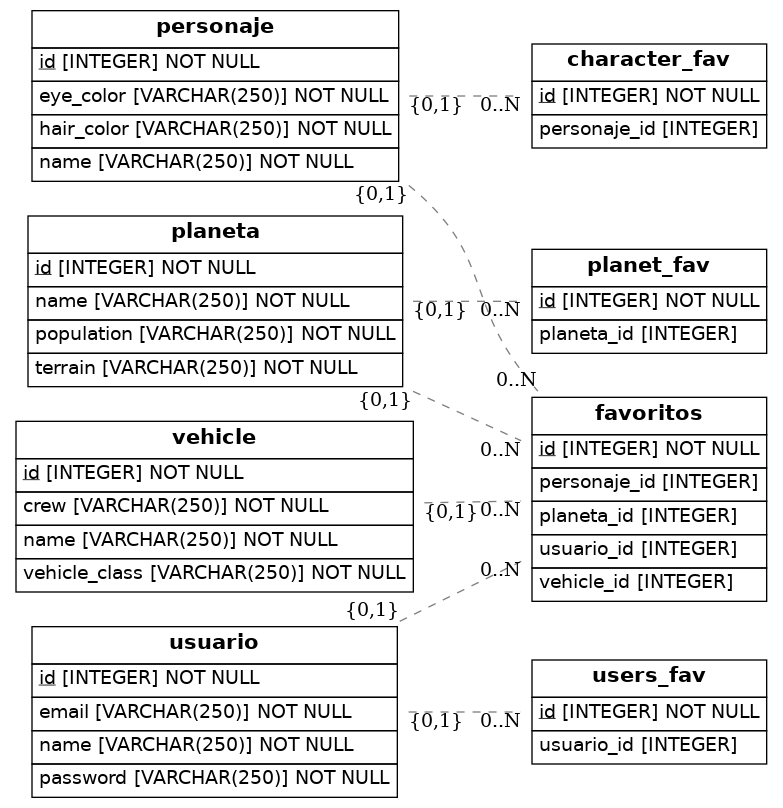
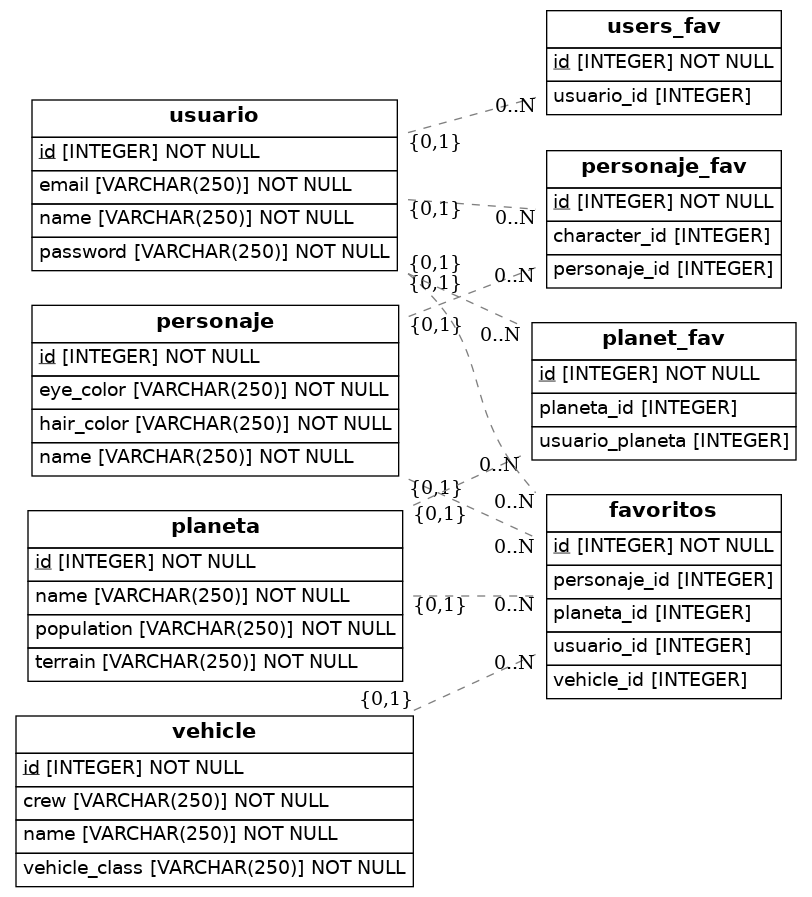
Reformas en las tablas de base de datos, mejora en las relaciones

Changed region(s): [[0.0, 0.0, 0.9808, 0.9901], [0.4904, 0.0309, 0.5211, 0.0619]]

diff --git a/src/models.py b/src/models.py
@@ -7,6 +7,38 @@ from eralchemy2 import render_er
 
 Base = declarative_base()
 
+    # TABLAS DE FAVORITOS INICIO
+class Favoritos(Base):
+    __tablename__ = 'favoritos'
+    id = Column(Integer, primary_key=True)
+    usuario_id = Column(Integer, ForeignKey('usuario.id'))
+    personaje_id = Column(Integer, ForeignKey('personaje.id'))
+    planeta_id = Column(Integer,ForeignKey('planeta.id'))
+    vehicle_id = Column(Integer,ForeignKey('vehicle.id'))
+
+class Planet_fav(Base):
+    __tablename__ = 'planet_fav'
+    id = Column(Integer, primary_key=True)
+    planeta_id = Column(Integer,ForeignKey('planeta.id'))
+    usuario_planeta = Column(Integer,ForeignKey('usuario.id'))
+
+class Users_fav(Base):
+    __tablename__ = 'users_fav'
+    id = Column(Integer, primary_key=True)
+    usuario_id = Column(Integer, ForeignKey('usuario.id'))
+
+
+class Personaje_fav(Base):
+    __tablename__ = 'personaje_fav'
+    id = Column(Integer, primary_key=True)
+    personaje_id = Column(Integer, ForeignKey('personaje.id'))
+    usuario_id = Column(Integer, ForeignKey('usuario.id'))
+
+    # TABLAS DE FAVORITOS FINAL
+
+
+
+
 class Personaje(Base):
     __tablename__ = 'personaje'
     # Here we define columns for the table person
@@ -16,7 +48,7 @@ class Personaje(Base):
     eye_color = Column(String(250), nullable=False)
     hair_color = Column(String(250), nullable=False)
     person_favorite = relationship('Favoritos', backref='personaje', lazy=True)
-    fav_person = relationship('Character_fav', backref = 'personaje', lazy=True)
+    fav_person = relationship('Personaje_fav', backref = 'personaje', lazy=True)
 
 
 
@@ -49,30 +81,7 @@ class Usuario(Base):
     password = Column(String(250), nullable=False)
     favorite_users = relationship('Favoritos', backref='usuario', lazy=True)
     fav_user = relationship('Users_fav', backref = 'usuario', lazy=True)
-
-class Favoritos(Base):
-    __tablename__ = 'favoritos'
-    id = Column(Integer, primary_key=True)
-    usuario_id = Column(Integer, ForeignKey('usuario.id'))
-    personaje_id = Column(Integer, ForeignKey('personaje.id'))
-    planeta_id = Column(Integer,ForeignKey('planeta.id'))
-    vehicle_id = Column(Integer,ForeignKey('vehicle.id'))
-
-class Planet_fav(Base):
-    __tablename__ = 'planet_fav'
-    id = Column(Integer, primary_key=True)
-    planeta_id = Column(Integer,ForeignKey('planeta.id'))
-
-class Users_fav(Base):
-    __tablename__ = 'users_fav'
-    id = Column(Integer, primary_key=True)
-    usuario_id = Column(Integer, ForeignKey('usuario.id'))
-
-
-class Character_fav(Base):
-    __tablename__ = 'character_fav'
-    id = Column(Integer, primary_key=True)
-    personaje_id = Column(Integer, ForeignKey('personaje.id'))
+    fav_user_character = relationship('Personaje_fav', backref = 'usuario', lazy=True)
 
 
     def to_dict(self):
